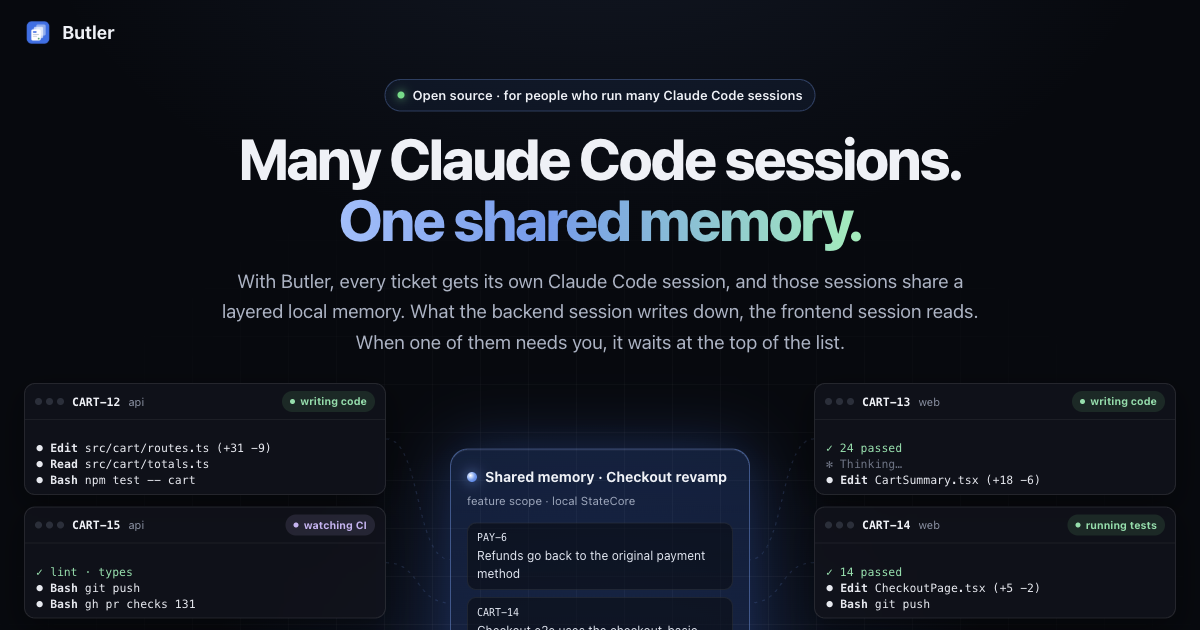
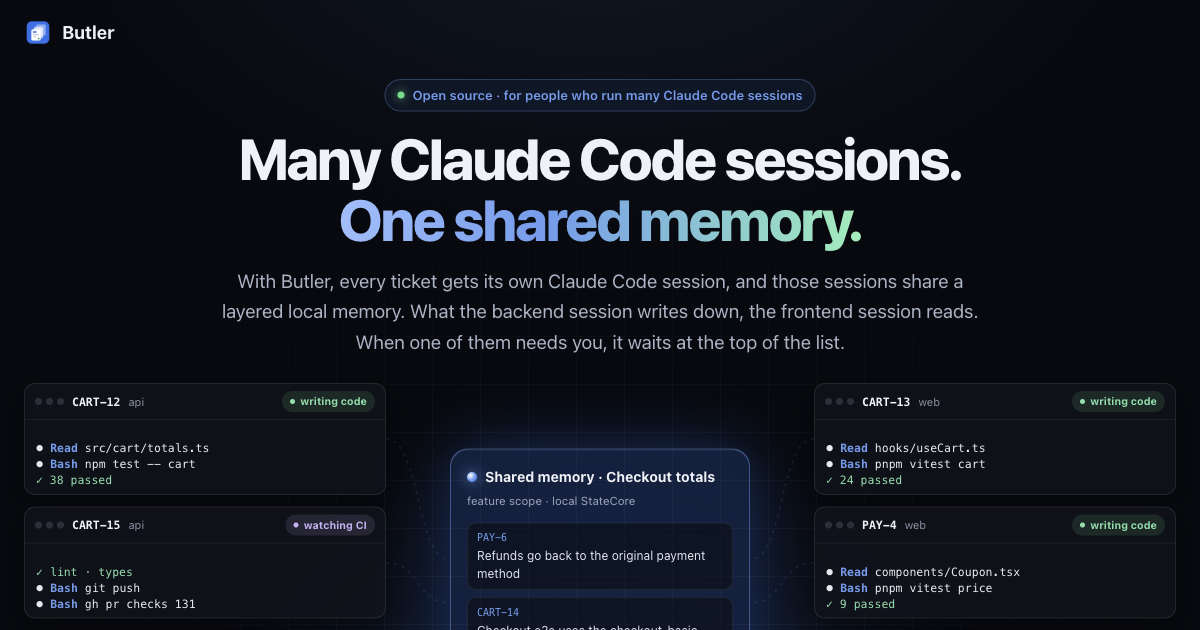
fix: final review — accuracy of memory copy, mobile hero events, copy button, css var

diff --git a/index.html b/index.html
@@ -83,7 +83,7 @@
   }
 
   .hero { position: relative; z-index: 1; text-align: center; padding: 14px 24px 0; max-width: 980px; margin: 0 auto; }
-  .eyebrow { display: inline-flex; gap: 8px; align-items: center; font-size: 13px; font-weight: 600; color: var(--blue-hi);
+  .eyebrow { display: inline-flex; gap: 8px; align-items: center; font-size: 13px; font-weight: 600; color: var(--blue-2);
     border: 1px solid rgba(107,156,240,.3); background: rgba(47,111,223,.08); padding: 5px 12px; border-radius: 999px; margin-bottom: 16px; }
   .eyebrow .dot { width: 7px; height: 7px; border-radius: 50%; background: var(--green); box-shadow: 0 0 10px var(--green); }
   body { position: relative; }
@@ -123,12 +123,12 @@
   .pill { margin-left: auto; font-size: 10.5px; font-weight: 700; padding: 2px 8px; border-radius: 999px; background: rgba(74,222,128,.12); color: #7ee0a8; white-space: nowrap; display: flex; align-items: center; gap: 5px; }
   .pill::before { content: ""; width: 5px; height: 5px; border-radius: 50%; background: currentColor; animation: blink 1.4s infinite; }
   .pill.ci { background: rgba(201,179,245,.12); color: #c9b3f5; }
-  .pill.think { background: rgba(107,156,240,.12); color: var(--blue-hi); }
+  .pill.think { background: rgba(107,156,240,.12); color: var(--blue-2); }
   .pill.ask { background: rgba(240,207,110,.16); color: var(--amber); }
   @keyframes blink { 50% { opacity: .3; } }
   .tb { height: 74px; padding: 6px 11px; font-family: ui-monospace, "SF Mono", Menlo, monospace; font-size: 11.5px; line-height: 16px; color: #b9c0cf; overflow: hidden; display: flex; flex-direction: column; justify-content: flex-end; }
   .tb div { flex-shrink: 0; white-space: nowrap; overflow: hidden; text-overflow: ellipsis; }
-  .tb .tool { color: #e6e9f0; } .tb .tool b { color: var(--blue-hi); font-weight: 600; }
+  .tb .tool { color: #e6e9f0; } .tb .tool b { color: var(--blue-2); font-weight: 600; }
   .tb .ok { color: #7ee0a8; } .tb .dim { color: #6b7385; }
   .tb .mem-w { color: #9cc0ff; } .tb .mem-r { color: #8ef0b8; } .tb .q { color: var(--amber); }
   .caret { display: inline-block; width: 6px; height: 12px; background: #b9c0cf; vertical-align: -2px; margin-left: 1px; animation: blink 1s steps(1) infinite; }
@@ -145,7 +145,7 @@
   .notes { display: flex; flex-direction: column; gap: 7px; min-height: 236px; }
   .note { background: rgba(7,9,14,.55); border: 1px solid rgba(255,255,255,.07); border-radius: 9px; padding: 7px 9px; font-size: 12px; line-height: 1.45; color: #dfe5f1;
     animation: drop .55s cubic-bezier(.2,.9,.3,1.2); }
-  .note .src { display: block; font-family: ui-monospace, Menlo, monospace; font-size: 10px; color: var(--blue-hi); margin-bottom: 2px; }
+  .note .src { display: block; font-family: ui-monospace, Menlo, monospace; font-size: 10px; color: var(--blue-2); margin-bottom: 2px; }
   .note.fresh { border-color: rgba(107,156,240,.6); background: rgba(47,111,223,.18); }
   @keyframes drop { from { opacity: 0; transform: translateY(-10px) scale(.96); } }
   .core .foot { display: flex; justify-content: space-between; font-size: 10.5px; color: #7d89a1; margin-top: 10px; }
@@ -382,7 +382,7 @@
   <div class="col" id="left"></div>
   <div class="core" id="core">
     <div class="needs" id="needs"><span class="zh">⚑ 需要你 · 1</span><span class="en">⚑ Needs you · 1</span></div>
-    <h3><span class="orb"></span><span class="zh">共享记忆 · 结账改版</span><span class="en">Shared memory · Checkout revamp</span></h3>
+    <h3><span class="orb"></span><span class="zh">共享记忆 · 结账金额</span><span class="en">Shared memory · Checkout totals</span></h3>
     <div class="sub"><span class="zh">feature 级 · 存在本地 StateCore</span><span class="en">feature scope · local StateCore</span></div>
     <div class="notes" id="notes"></div>
     <div class="foot"><span id="count"></span><span class="zh">8 个 session 在跑</span><span class="en">8 sessions running</span></div>
@@ -433,14 +433,14 @@
   <p class="kicker"><span class="zh">三层记忆</span><span class="en">Layered memory</span></p>
   <h2><span class="zh">「大家都知道」是怎么做到的</span><span class="en">How "everyone knows" actually works</span></h2>
   <p class="intro">
-    <span class="zh">Butler 内置了本地的 StateCore 记忆，给它打开的每个 session 都接上几份记忆。session 用 <code>remember</code> 记下，用 <code>recall</code> 读到。session 之间不直接对话，总控也不会往别的 session 的终端里打字；互通靠的就是这几份共用的记忆，一层套一层。</span>
-    <span class="en">Butler embeds a local StateCore memory and connects every session it opens to a few memories. A session writes with <code>remember</code> and reads with <code>recall</code>. Sessions never message one another, and a coordinator never types into another session's terminal: they stay in sync through these shared memories, nested one inside the next.</span>
+    <span class="zh">Butler 内置了本地的 StateCore 记忆，给它打开的每个 session 都接上几份记忆。session 用 <code>remember</code> 记下，用 <code>recall</code> 读到。总控不会往别的 session 的终端里打字，大家知道彼此做了什么，靠的就是这几份共用的记忆，一层套一层。</span>
+    <span class="en">Butler embeds a local StateCore memory and connects every session it opens to a few memories. A session writes with <code>remember</code> and reads with <code>recall</code>. A coordinator never types into another session's terminal. What keeps everyone in sync is these shared memories, nested one inside the next.</span>
   </p>
 
   <div class="layers">
     <div class="layer l-epic">
       <div class="lh"><span class="lname"><span class="zh">epic 记忆</span><span class="en">Epic memory</span></span><code>butler-epic</code></div>
-      <p><span class="zh">epic session 记下的规划和决定，加上每个 feature 的最新进展：feature 一有新总结，Butler 就自动改写这一份。epic 下面所有 session 都读得到。</span><span class="en">Planning notes and decisions from the epic session, plus the latest state of every feature, which Butler rewrites whenever a feature gets a new summary. Every session under the epic can read it.</span></p>
+      <p><span class="zh">epic session 记下的规划和决定，加上各个 feature 的最新进展（最近的 10 个）：feature 一有新总结，Butler 就自动改写这一份。epic 下面所有 session 都读得到。</span><span class="en">Planning notes and decisions from the epic session, plus the latest state of its features (the 10 most recent), which Butler rewrites whenever a feature gets a new summary. Every session under the epic can read it.</span></p>
       <div class="layer l-feature">
         <div class="lh"><span class="lname"><span class="zh">feature 记忆</span><span class="en">Feature memory</span></span><code>butler-feature</code></div>
         <p><span class="zh">前后端之间的约定，比如接口长什么样、谁负责哪一块。feature 的总控和它所有 ticket 的 session 共用。</span><span class="en">What frontend and backend agree on, such as the shape of an API and who owns which part. Shared by the feature's coordinator and every session of its tickets.</span></p>
@@ -482,7 +482,7 @@
       </div>
     </div>
   </div>
-  <p class="caption"><span class="zh">后端 session 改完接口就记下一句，同一个 feature 里的前端 session 下次 recall 时读到，照着改。中间没有人转述，也没有谁去敲谁的终端。</span><span class="en">The backend session notes the API change once it lands; the frontend session in the same feature reads it on its next recall and follows it. Nobody relays it, and nobody types into anybody's terminal.</span></p>
+  <p class="caption"><span class="zh">后端 session 改完接口就记下一句，同一个 feature 里的前端 session 下次 recall 时读到，照着改。中间没有人转述，总控也不用去敲前端的终端。</span><span class="en">The backend session notes the API change once it lands; the frontend session in the same feature reads it on its next recall and follows it. Nobody relays it, and no coordinator has to type it into the frontend's terminal.</span></p>
 
   <div class="facts">
     <div class="fact">
@@ -599,11 +599,11 @@
     </div>
     <div class="fact">
       <h3><span class="zh">只在你点了之后改 Claude Code 配置</span><span class="en">Claude Code config changes only when you click</span></h3>
-      <p><span class="zh">点「安装 hook」时，Butler 往用户级 <code>settings.json</code> 加四个 hook 和一个 <code>/handoff</code> 命令，第一次会先备份，你原有的 hook 和命令都保留，在设置里随时能卸载。记忆不用 <code>claude mcp add</code> 注册，而是在它启动的每个 session 上传 <code>--mcp-config</code>。</span><span class="en">When you click the hook install, Butler adds four hooks and a <code>/handoff</code> command to your user-level <code>settings.json</code>, backing it up the first time and keeping your other hooks and commands. You can uninstall from Settings. Memory is never registered with <code>claude mcp add</code>; Butler passes <code>--mcp-config</code> to each session it starts.</span></p>
+      <p><span class="zh">点「安装 hook」时，Butler 往用户级 <code>settings.json</code> 加四个 hook（第一次会先备份这个文件），再写一个 <code>/handoff</code> 命令，你原有的 hook 和命令都保留，在设置里随时能卸载。记忆不用 <code>claude mcp add</code> 注册，而是在它启动的每个 session 上传 <code>--mcp-config</code>。</span><span class="en">When you click the hook install, Butler adds four hooks to your user-level <code>settings.json</code> (backing the file up the first time) and writes a <code>/handoff</code> command, keeping your other hooks and commands. You can uninstall from Settings. Memory is never registered with <code>claude mcp add</code>; Butler passes <code>--mcp-config</code> to each session it starts.</span></p>
     </div>
     <div class="fact">
       <h3><span class="zh">MIT 开源</span><span class="en">MIT licensed</span></h3>
-      <p><span class="zh">源码在 GitHub 上，可以自己读、自己构建。Intel Mac 目前只能从源码构建。</span><span class="en">The source is on GitHub to read and build yourself. Intel Macs can build from source.</span></p>
+      <p><span class="zh">源码在 GitHub 上，可以自己读、自己构建。Intel Mac 需要从源码构建。</span><span class="en">The source is on GitHub to read and build yourself. Intel Macs need to build from source.</span></p>
     </div>
   </div>
 </section>
@@ -700,15 +700,14 @@
 <script>
   // Copy buttons: copy the text of the element named by data-copy, then say so on the button for a moment.
   document.querySelectorAll(".copy[data-copy]").forEach(function (b) {
-    var labels = { zh: "已复制", en: "Copied" };
+    var spans = b.querySelectorAll("span"), idle = [spans[0].textContent, spans[1].textContent], timer = null;
     b.addEventListener("click", function () {
       var el = document.getElementById(b.getAttribute("data-copy"));
       if (!el || !navigator.clipboard) return;
       navigator.clipboard.writeText(el.textContent).then(function () {
-        var spans = b.querySelectorAll("span");
-        var old = [spans[0].textContent, spans[1].textContent];
-        spans[0].textContent = labels.zh; spans[1].textContent = labels.en;
-        setTimeout(function () { spans[0].textContent = old[0]; spans[1].textContent = old[1]; }, 1500);
+        spans[0].textContent = "已复制"; spans[1].textContent = "Copied";
+        clearTimeout(timer);
+        timer = setTimeout(function () { spans[0].textContent = idle[0]; spans[1].textContent = idle[1]; }, 1500);
       }, function () {});
     });
   });
@@ -744,10 +743,10 @@
       pool: [["tool","Read","src/pay/refund.ts","read"],["tool","Grep","\"onNotify\"","read"],["tool","Edit","src/pay/refund.ts (+8 −3)","code"],["ok","  ✓ 17 passed","","test"],["dim","✻ Thinking…","","think"]] },
     { id: "CART-13", repo: "web",  side: "right", pill: "code",
       pool: [["tool","Edit","CartSummary.tsx (+18 −6)","code"],["tool","Read","hooks/useCart.ts","read"],["tool","Bash","pnpm vitest cart","test"],["ok","  ✓ 24 passed","","test"],["dim","✻ Thinking…","","think"]] },
-    { id: "CART-14", repo: "web",  side: "right", pill: "test",
-      pool: [["tool","Bash","pnpm playwright test checkout","test"],["dim","  ◌ 11/14 specs","","test"],["ok","  ✓ 14 passed","","test"],["tool","Edit","CheckoutPage.tsx (+5 −2)","code"],["tool","Bash","git push","ci"]] },
     { id: "PAY-4",   repo: "web",  side: "right", pill: "code",
       pool: [["tool","Edit","usePriceBreakdown.ts (+14 −11)","code"],["tool","Read","components/Coupon.tsx","read"],["tool","Bash","pnpm vitest price","test"],["ok","  ✓ 9 passed","","test"],["dim","✻ Thinking…","","think"]] },
+    { id: "CART-14", repo: "web",  side: "right", pill: "test",
+      pool: [["tool","Bash","pnpm playwright test checkout","test"],["dim","  ◌ 11/14 specs","","test"],["ok","  ✓ 14 passed","","test"],["tool","Edit","CheckoutPage.tsx (+5 −2)","code"],["tool","Bash","git push","ci"]] },
     { id: "CART-16", repo: "api",  side: "right", pill: "code",
       pool: [["tool","Write","migrations/0042_order_totals.sql","code"],["tool","Read","db/schema.ts","read"],["tool","Bash","npm run db:check","test"],["ok","  ✓ schema ok","","test"],["dim","✻ Thinking…","","think"]] }
   ];
@@ -902,8 +901,16 @@
 
   // ---------- choreography ----------
   var ei = 0;
+  function shown(t) { return t.el.offsetParent !== null; }
   function memoryEvent() {
-    var e = EVENTS[ei++ % EVENTS.length], src = byId(e.from), dst = byId(e.to);
+    // On narrow screens only some terminals are shown: play the next event whose two ends are both visible.
+    var e, src, dst;
+    for (var i = 0; i < EVENTS.length; i++) {
+      e = EVENTS[ei++ % EVENTS.length]; src = byId(e.from); dst = byId(e.to);
+      if (shown(src) && shown(dst)) break;
+      e = null;
+    }
+    if (!e || src.busy || dst.busy) return;
     src.busy = true; dst.busy = true;
     src.queue.push({ html: '<span class="mem-w">⏺ remember("' + esc(T(e.note)) + '")</span>', pill: "code", done: function () {
       src.el.classList.add("write");
@@ -926,8 +933,8 @@
 
   var askOn = false;
   function askEvent() {
-    var cands = terms.filter(function (t) { return !t.busy; }); if (!cands.length) return;
-    var t = byId("CART-16"); if (t.busy) t = cands[Math.floor(Math.random() * cands.length)];
+    var cands = terms.filter(function (t) { return !t.busy && shown(t); }); if (!cands.length) return;
+    var t = byId("CART-16"); if (t.busy || !shown(t)) t = cands[Math.floor(Math.random() * cands.length)];
     t.busy = true; askOn = true;
     t.queue.push({ html: '<span class="q">? ' + (lang === "zh" ? "迁移会锁 orders 表约 2 秒，继续吗？(y/n)" : "Migration locks orders for ~2s. Continue? (y/n)") + '</span>', pill: "ask", done: function () {
       t.el.classList.add("ask"); document.getElementById("needs").classList.add("on");
